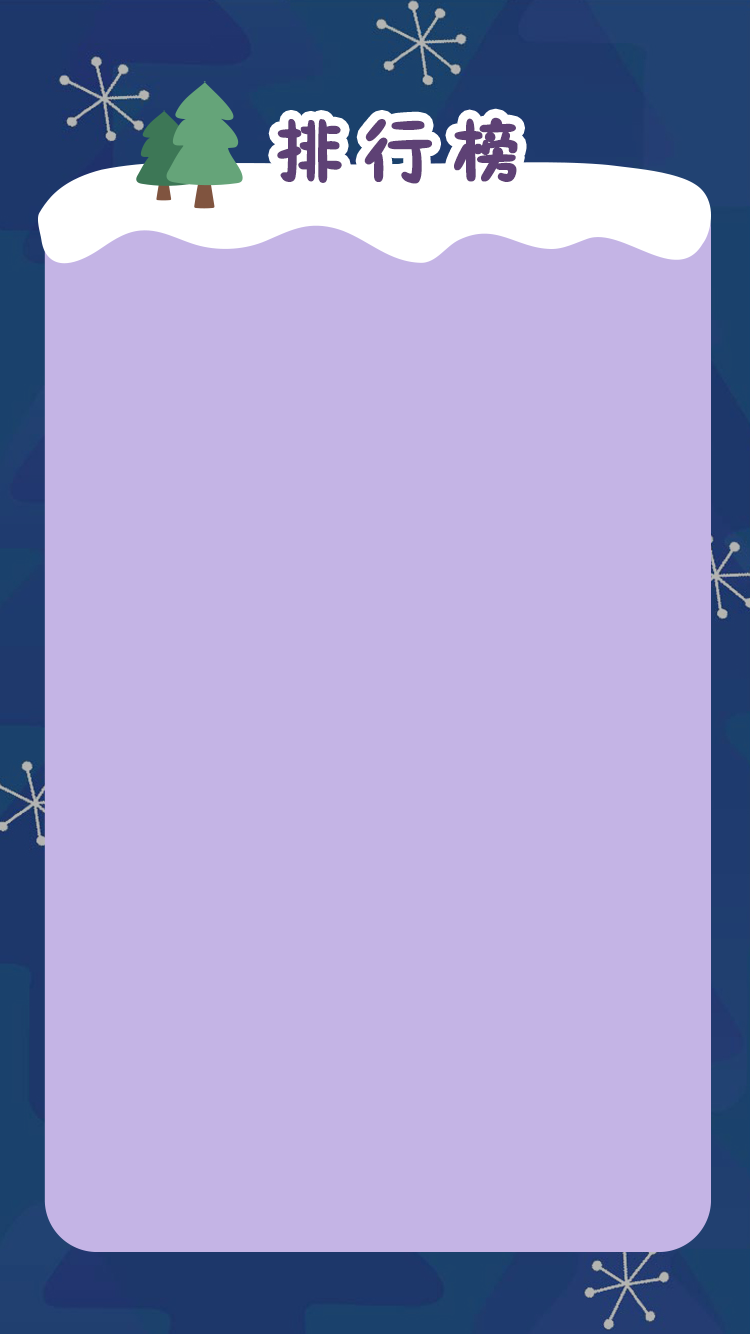
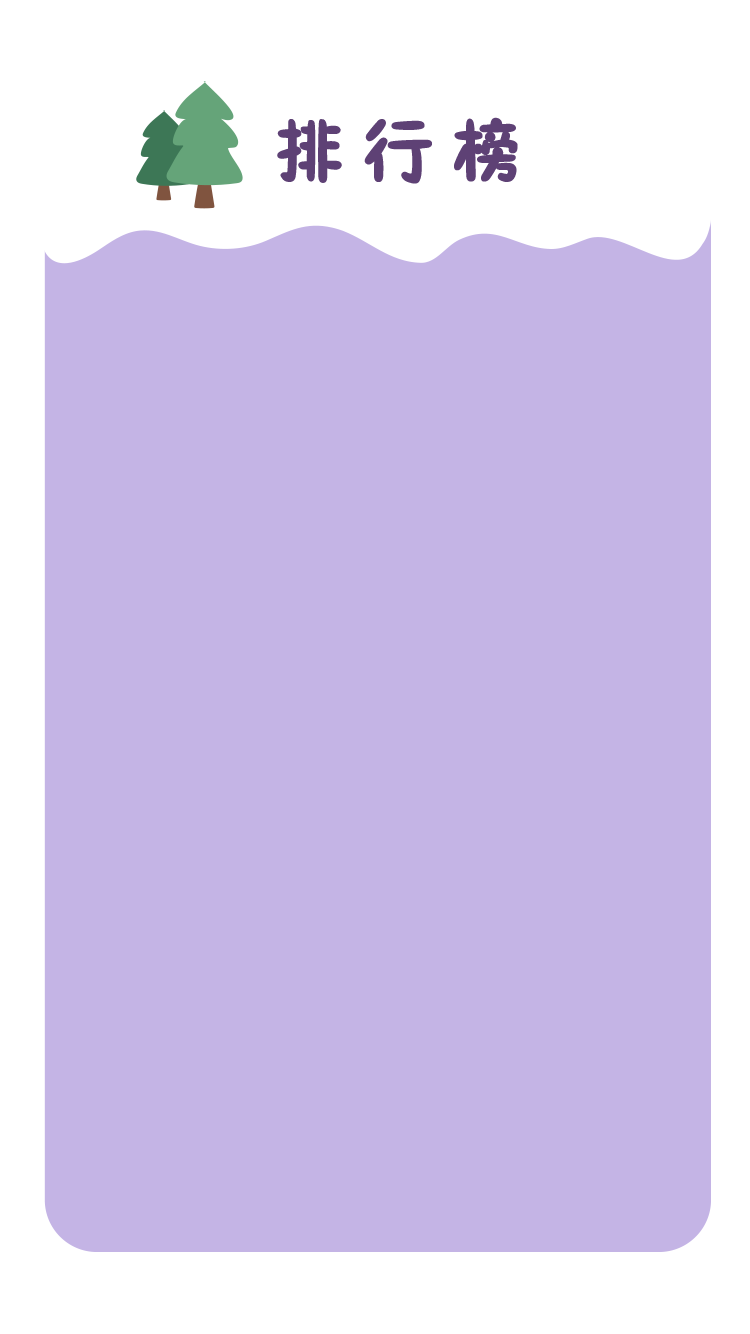
修复显示问题

Changed region(s): [[0.0, 0.0, 1.0, 1.0]]

diff --git a/html/score.html b/html/score.html
@@ -7,21 +7,30 @@
 
 <style>
     html,body{
+        background-image: url("../static/bg.jpg");
+        background-repeat: no-repeat;
+        background-size: cover;
         width: 100%;
         height: 100%;
         margin:0;
         padding:0;
     }
+    .box{
+        position:absolute;
+        left:0;
+        right:0;
+        margin:auto;
+        width: 100%;
 
-    body{
-        background-image: url('../static/top3.png');
-        background-size: cover;
-        background-repeat: no-repeat;
     }
 
     #ranklist {
-        margin: 150px auto 0 auto;
-        width: 350px;
+        position:absolute;
+        left:0;
+        right:0;
+        top:150px;
+        margin: auto;
+        width: 100%;
     }
 
     .table-head th {
@@ -38,19 +47,23 @@
 
 <body>
 <table id="ranklist">
+    <img class="box" src="../static/top3.png">
     <tr class="table-head">
         <th>排名</th>
         <th>姓名</th>
         <th>分数</th>
     </tr>
-    <!--<tr class="table-content">-->
-        <!--<td>1</td>-->
-        <!--<td>汤汤</td>-->
-        <!--<td>789</td>-->
-    <!--</tr>-->
+    <!--
+    <tr class="table-content">
+        <td>1</td>
+        <td>汤汤</td>
+        <td>789</td>
+    </tr>
+    -->
 </table>
 <script src="../js/fetch.js" type="text/javascript"></script>
 <script>
+    
     window.onload = async () => {
         const response = await request('/score', 'GET', {
             page: 1,

diff --git a/html/edit.html b/html/edit.html
@@ -256,9 +256,8 @@
 </style>
 <body>
     <div id="final-background"></div>
-    <button id="back-btn" onclick="window.location.href = 'first.html'">
-        <img src="../static/back-icon.png" height="20">
-    </button>
+    
+        <img id="back-btn" src="../static/back-icon.png" onclick="window.location.href = 'first.html'"height="20">
     <button id="submit-btn" onclick="submitImg()">完成</button>
     <div class="window">
 

diff --git a/html/avatar.html b/html/avatar.html
@@ -67,7 +67,7 @@
 <body>
     <div class="window">
     <image class="bg-pic"src="../static/window_grade.png"></image>
-    <h2 id="nicknames">姓名</h2>
+    <h2 id="nicknames">{{data.nickname}}</h2>
     <p>快为自己的头像带上圣诞帽吧！</p>
 
         <image class="confirm" src="../static/edit.png" onclick="window.location.href='edit.html'"></image>

diff --git a/js/alert.js b/js/alert.js
@@ -25,6 +25,7 @@
         hide: function(){
             this.alert.style.display = this.mask.style.display = 'none';
             exports.event && (exports.event.stopPropagation(), exports.event.preventDefault());
+            exports
         },
         initEvents: function(){
             this.hideHandler = this.hideHandler || this.hide.bind(this);
